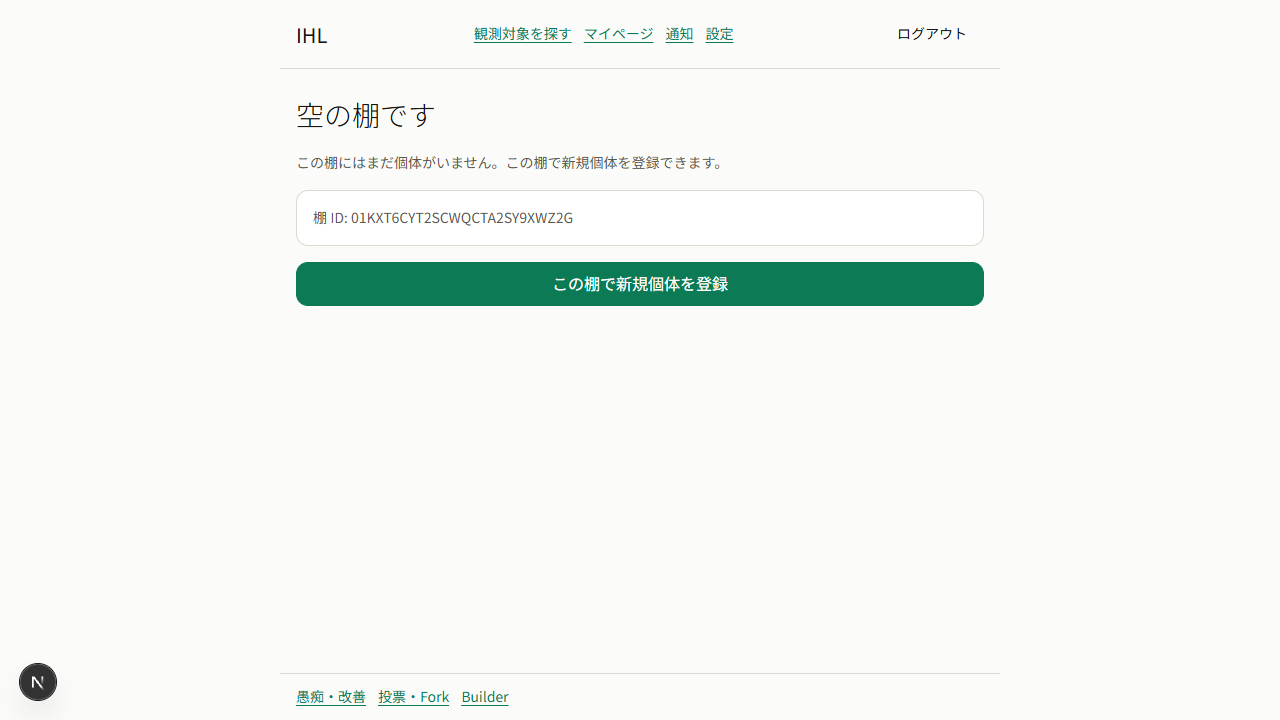
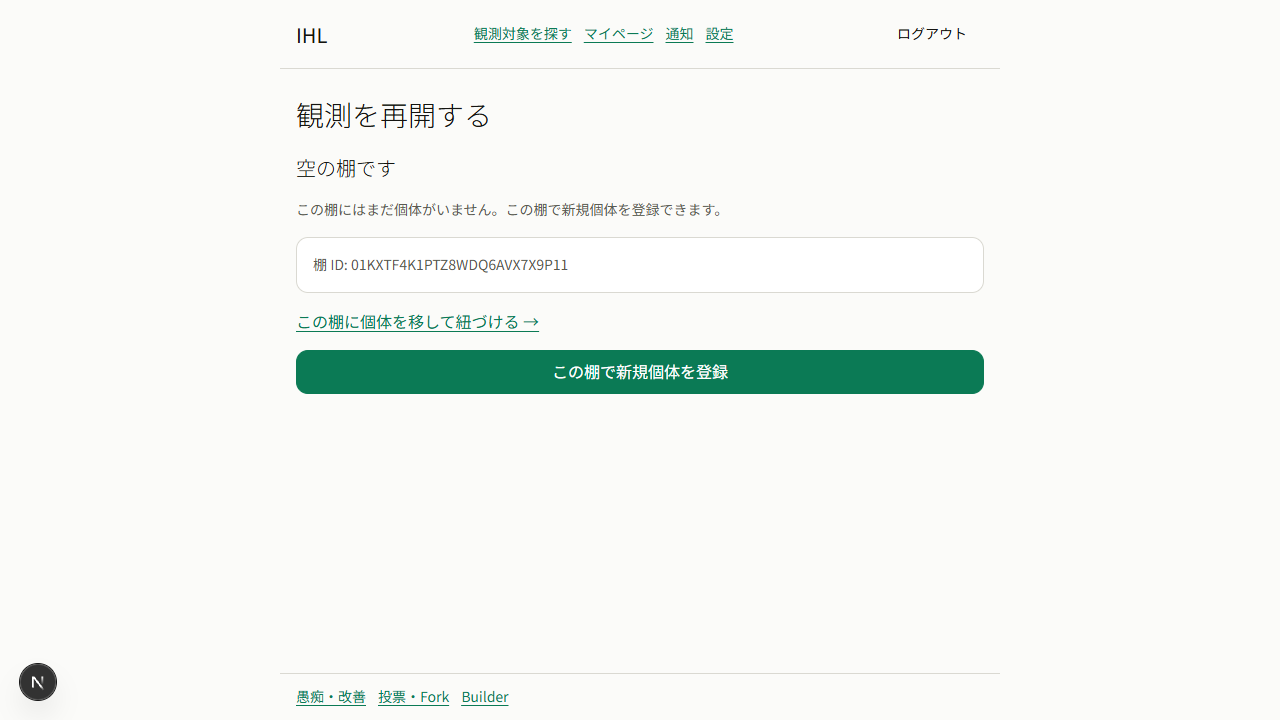
feat(obs): 棚への個体紐づけに所有権認可(fail-closed) + reuse UI — wave1 R3
棚に個体を紐づける(occupancy)導線を追加。ユーザー制約: 他人の個体をQR/検索で
勝手に登録できてはならない(取得はMarketの所有権譲渡+同意経由のみ・可視性≠認可)。
実コードの穴を是正: occupancy書き込みの全typed経路に fail-closed 所有権認可を追加。
現所有者=最新transfer受領者 or 作成者(GET /individuals本人スコープと一致)。
- POST /occupancy: 非所有者は403 NOT_OWNER・書き込まない
- moveOccupancy: 同上(batch-commit kind:"move"はper-item失敗にマップ)
- deriveDeviceBindingsForCapture(観測コミット時の自動占有生成): 敵対的批評家が
  発見した越境claim経路を是正=自分の所有個体のみ棚リンク(観測自体は合法・リンクのみ抑止)
UI: qr-resume(多頭/空)に「この棚に個体を移して紐づける」= 既存の本人スコープ
一括移動フローへ(reuse-first・新画面なし・renderer/schemas/nav無改変)。
認可はTypeScript/ユニット/E2Eで実証: occupancy-authz.spec(2ユーザー403/201)+
obs-device-binding-commit.test(非所有者コミット→占有0件を実ストア走査で証明)。

【正直な残存リスク・スコープ外】敵対的再検査で第4経路=汎用生追加 POST /events
(index.ts:534)が型allowlist無しで越境occupancyを直append可能と判明。これは
R3以前から存在する系統的な平台級の穴(occupancyに限らず市場所有権=金銭・カルマ等
全data本文認可に影響)で、修正層は/events自体かprojection時再検証=C9/platform裁定。
本コミットのtyped-writer認可は独立検査でCONFIRMED・完全。C9へ別チケットでescalation済
(review-queue sec-events-rawingest-authz-to-c9)。appの導線(QR/検索/UI/観測)は本コミットで
守られるが、生API直POSTは/events是正まで残る旨を誇張なく記録。

自律実行理由: ユーザー判定GO(OBS-QR-4/5=○○・80点「すっごくいい使いやすそう」)+
三重ゲート(lint/npm test api1362+web199/apps-web vitest117/e2e6/pytest49・独立批評家
1件bug発見→是正→再検査でtyped-writer全ガード確認)。main未push(統合はC9)。
参照: persona R75/R88 / review-queue obs-r3-link-authz / sec-events-rawingest-authz-to-c9

Changed region(s): [[0.2188, 0.275, 0.7812, 0.55], [0.2188, 0.2139, 0.5625, 0.2444], [0.2188, 0.1222, 0.375, 0.1833]]

diff --git a/tests/obs-device-binding-commit.test.ts b/tests/obs-device-binding-commit.test.ts
@@ -2,7 +2,9 @@
 // Occupancyの区間が自動派生される(専用binding APIを別途呼ばない・commit1回で完結)。
 import { describe, expect, it } from "vitest";
 import app from "../apps/api/src/index";
-import { DEV_TOKEN, FakeR2Bucket, makeEnv } from "./helpers";
+import { TruthStore } from "@ihl/truth";
+import { issueSessionToken } from "../apps/api/src/session";
+import { DEV_TOKEN, FakeR2Bucket, SESSION_SECRET, makeEnv } from "./helpers";
 
 const AUTH = { Authorization: `Bearer ${DEV_TOKEN}` };
 const AUTH_JSON = { ...AUTH, "content-type": "application/json" };
@@ -11,15 +13,19 @@ function ctx() {
   const bucket = new FakeR2Bucket();
   return { bucket, env: makeEnv(bucket) };
 }
-async function post(path: string, body: unknown, env: object) {
-  return app.request(path, { method: "POST", headers: AUTH_JSON, body: JSON.stringify(body) }, env);
+async function post(path: string, body: unknown, env: object, headers: Record<string, string> = AUTH_JSON) {
+  return app.request(path, { method: "POST", headers, body: JSON.stringify(body) }, env);
 }
-async function get(path: string, env: object) {
-  return app.request(path, { headers: AUTH }, env);
+async function get(path: string, env: object, headers: Record<string, string> = AUTH) {
+  return app.request(path, { headers }, env);
+}
+async function authOf(actor: string) {
+  const tok = await issueSessionToken(actor, SESSION_SECRET);
+  return { Authorization: `Bearer ${tok}`, "content-type": "application/json" };
 }
 
-async function registerDevice(env: object, placementRef: string) {
-  const res = await post("/api/v1/devices", { provider: "dummy", display_name: "Shelf Sensor", placement_ref: placementRef }, env);
+async function registerDevice(env: object, placementRef: string, headers: Record<string, string> = AUTH_JSON) {
+  const res = await post("/api/v1/devices", { provider: "dummy", display_name: "Shelf Sensor", placement_ref: placementRef }, env, headers);
   return ((await res.json()) as { device_id: string }).device_id;
 }
 
@@ -27,6 +33,11 @@ describe("OBS-17 DeviceBinding/Occupancy auto-derivation at commit", () => {
   it("solid-observation/commit with devices[] opens a binding + occupancy with no separate API call", async () => {
     const { env } = ctx();
     const deviceId = await registerDevice(env, "placement/shelf-1");
+    // occupancy authz (Task 1, source-routes.ts deriveDeviceBindingsForCapture):
+    // the auto-derived occupancy links subject_ref to the device's placement —
+    // that's an ownership action, so the caller must own individual/ind-A first
+    // (same DEV_TOKEN actor creates its master here) or the derivation fail-closes.
+    await post("/api/v1/individuals", { individual_id: "ind-A" }, env);
 
     const res = await post(
       "/api/v1/solid-observation/commit",
@@ -92,5 +103,69 @@ describe("OBS-17 DeviceBinding/Occupancy auto-derivation at commit", () => {
     expect(body.results[0].ok).toBe(true);
     expect(body.results[0].device_bindings).toHaveLength(1);
     expect(body.results[0].device_bindings![0].device_id).toBe(deviceId);
+  });
+
+  // Regression for the ownership bypass this file's persona R75 fix closes:
+  // a capture-commit with devices[] used to auto-link ANY subject_ref onto the
+  // device's placement (occupancy) with no ownership check — actor B could
+  // capture-observe actor A's individual through a device B controls and
+  // silently claim A's individual onto B's shelf. deriveDeviceBindingsForCapture
+  // now only derives the occupancy when the caller owns the individual
+  // (source-routes.ts ~L494-521); non-owner captures still succeed (observing
+  // is legal) but must write ZERO occupancy events.
+  it("OWNERSHIP BYPASS (persona R75): non-owner capture with devices[] derives NO occupancy for someone else's individual", async () => {
+    const { env, bucket } = ctx();
+    const a = await authOf("owner-a-r75");
+    const b = await authOf("owner-b-r75");
+
+    // A owns individual X (creates its master).
+    const indRes = await post("/api/v1/individuals", { individual_id: "ind-r75-x" }, env, a);
+    expect(indRes.status).toBe(201);
+
+    // Device D has a placement_ref (shelf S) — registered by B, who controls it.
+    const deviceId = await registerDevice(env, "placement/shelf-r75", b);
+
+    // X has no open occupancy yet — the pre-fix code would have opened one here.
+    const res = await post(
+      "/api/v1/solid-observation/commit",
+      { domain: "biology", subject_ref: "individual/ind-r75-x", devices: [deviceId] },
+      env,
+      b,
+    );
+    expect(res.status).toBe(202); // observing a non-owned individual stays legal
+    const body = (await res.json()) as {
+      device_bindings: { device_id: string; binding_id: string | null; occupancy_id: string | null; occupancy_opened: boolean }[];
+    };
+    expect(body.device_bindings[0].occupancy_id).toBeNull();
+    expect(body.device_bindings[0].occupancy_opened).toBe(false);
+    // binding itself (device usage, not subject ownership) is unaffected.
+    expect(body.device_bindings[0].binding_id).toBeTruthy();
+
+    // Ground truth: zero OCCUPANCY_TYPE events exist for individual/ind-r75-x —
+    // B did not link A's individual to B's shelf.
+    const occEvents = (await new TruthStore(bucket).listEvents("truth/ihl.src.occupancy.v1/"))
+      .map((e) => e.data as Record<string, unknown>)
+      .filter((d) => d.subject_ref === "individual/ind-r75-x");
+    expect(occEvents).toHaveLength(0);
+
+    // Positive companion: A (the actual owner) doing the SAME capture DOES
+    // derive the occupancy — the fix didn't break legitimate auto-linking.
+    const resOwner = await post(
+      "/api/v1/solid-observation/commit",
+      { domain: "biology", subject_ref: "individual/ind-r75-x", devices: [deviceId] },
+      env,
+      a,
+    );
+    expect(resOwner.status).toBe(202);
+    const bodyOwner = (await resOwner.json()) as {
+      device_bindings: { occupancy_id: string | null; occupancy_opened: boolean }[];
+    };
+    expect(bodyOwner.device_bindings[0].occupancy_id).toBeTruthy();
+    expect(bodyOwner.device_bindings[0].occupancy_opened).toBe(true);
+
+    const occEventsAfter = (await new TruthStore(bucket).listEvents("truth/ihl.src.occupancy.v1/"))
+      .map((e) => e.data as Record<string, unknown>)
+      .filter((d) => d.subject_ref === "individual/ind-r75-x");
+    expect(occEventsAfter).toHaveLength(1);
   });
 });

diff --git a/apps/api/src/source-routes.ts b/apps/api/src/source-routes.ts
@@ -201,8 +201,57 @@ sourceRoutes.get("/device-bindings", async (c) => {
 
 // ── occupancy ───────────────────────────────────────────────────────────────
 
+// Ownership trust boundary (persona R75): a shelf QR lets a caller LINK their
+// OWN individual to a placement, but must never let them claim someone
+// else's individual by writing an occupancy directly — that must go through
+// the Market transfer flow (mkt-listing + consent). Below are the two
+// individual/market event types this needs read-only, mirrored from
+// individual-routes.ts (MASTER_TYPE / TXN_TYPE at individual-routes.ts:24,38)
+// rather than imported — individual-routes.ts already imports
+// projectOpenBindings FROM this module, so an import the other way would be
+// circular.
+const IND_MASTER_TYPE = "ihl.ind.master.v1";
+const MKT_TXN_TYPE = "ihl.mkt.transaction_event.v1";
+
+function individualIdFromSubjectRef(subjectRef: string): string | null {
+  return subjectRef.startsWith("individual/") ? subjectRef.slice("individual/".length) : null;
+}
+
+/**
+ * Current owner of an individual (fail-closed — mirrors the owner_history
+ * projection at individual-routes.ts:278-287 + the creator-scope check
+ * listIndividualsFor uses at individual-routes.ts:1049, composed into one
+ * "who owns this right now" answer):
+ *   - Any market transfer txn (kind:"transfer") whose individual_ids[]
+ *     contains this id → the LATEST one's `counterparty` (recipient) wins.
+ *     If that transfer's counterparty is null/empty (incomplete transfer),
+ *     fall back to the transfer's `actor_id` (seller/from) — never a
+ *     permissive default.
+ *   - Else → the individual master's `actor_id` (creator).
+ *   - Individual/master unknown → null (indeterminate). Callers MUST treat
+ *     null as "not the caller" (deny), never as "unowned, allow".
+ */
+export async function projectCurrentOwner(bucket: R2BucketLite, individualId: string): Promise<string | null> {
+  const s = new TruthStore(bucket);
+  const transfers = (await s.listEvents(`truth/${MKT_TXN_TYPE}/`))
+    .map(dataOf)
+    .filter((d) => d.kind === "transfer" && Array.isArray(d.individual_ids) && (d.individual_ids as unknown[]).includes(individualId))
+    .sort((a, b) => String(a.created_at ?? "").localeCompare(String(b.created_at ?? "")));
+  if (transfers.length > 0) {
+    const latest = transfers[transfers.length - 1];
+    const counterparty = str(latest.counterparty);
+    if (counterparty) return counterparty;
+    return str(latest.actor_id); // incomplete transfer — fall back to seller, not null
+  }
+  const master = await s.readEvent(`truth/${IND_MASTER_TYPE}/${individualId}.json`);
+  if (!master) return null;
+  return str(dataOf(master).actor_id);
+}
+
 // POST /occupancy — register an occupancy record. placement_id + subject_ref
-// required. actor_id forced from session.
+// required. actor_id forced from session. If subject_ref names an individual,
+// the caller must currently own it (see projectCurrentOwner above) — this is
+// the trust boundary that keeps shelf-linking from bypassing Market transfer.
 sourceRoutes.post("/occupancy", async (c) => {
   const body = (await c.req.json().catch(() => ({}))) as Record<string, unknown>;
   const actorId = c.get("actorId");
@@ -210,6 +259,11 @@ sourceRoutes.post("/occupancy", async (c) => {
   const subjectRef = str(body.subject_ref);
   if (!placementId || !subjectRef) {
     return c.json({ error: "INVALID_OCCUPANCY", details: ["placement_id and subject_ref required"] }, 400);
+  }
+  const individualId = individualIdFromSubjectRef(subjectRef);
+  if (individualId) {
+    const owner = await projectCurrentOwner(c.env.TRUTH, individualId);
+    if (owner !== actorId) return c.json({ error: "NOT_OWNER" }, 403);
   }
   const occupancyId = ulid();
   const data = {
@@ -323,6 +377,10 @@ export async function projectOccupantsAt(
  * Move a subject to a new placement: end the currently-open occupancy (if
  * any) + start a new one, as ONE logical action (F4 wireframe「移動」/
  * batch-commit kind:"move" — device-binding start/end と同型の2相append).
+ * Same ownership trust boundary as POST /occupancy above (projectCurrentOwner)
+ * — this is not an HTTP handler, so a non-owner move is signalled via the
+ * `{ error }` result branch instead of a 403; callers (batch-commit-routes.ts)
+ * must check for it and map it to a per-item failure, not a whole-batch throw.
  */
 export async function moveOccupancy(
   bucket: R2BucketLite,
@@ -330,7 +388,12 @@ export async function moveOccupancy(
   subjectRef: string,
   toPlacementId: string,
   at: string,
-): Promise<{ occupancy_id: string; ended_previous: boolean }> {
+): Promise<{ occupancy_id: string; ended_previous: boolean } | { error: "NOT_OWNER" }> {
+  const individualId = individualIdFromSubjectRef(subjectRef);
+  if (individualId) {
+    const owner = await projectCurrentOwner(bucket, individualId);
+    if (owner !== actorId) return { error: "NOT_OWNER" };
+  }
   const s = new TruthStore(bucket);
   const open = await projectOpenOccupancy(bucket, subjectRef);
   let endedPrevious = false;
@@ -428,7 +491,16 @@ export async function deriveDeviceBindingsForCapture(
     // concern — batch-commit kind:"move" / moveOccupancy handles that).
     let occupancyId: string | null = null;
     let occupancyOpened = false;
-    if (subjectRef) {
+    // R3 ownership boundary (fail-closed): auto-linking a capture's subject onto
+    // a shelf (occupancy) is an ownership action — same trust boundary as POST
+    // /occupancy / moveOccupancy. Only derive it when the actor OWNS the
+    // individual. Observing a non-owned individual stays legal, but silently
+    // linking it to the actor's placement here would bypass the Market
+    // transfer/consent (the exact claim R3 forbids). Non-individual subjects
+    // have no ownership concept → unchanged; owner indeterminate → skip the link.
+    const indId = subjectRef ? individualIdFromSubjectRef(subjectRef) : null;
+    const ownsSubject = subjectRef && (!indId || (await projectCurrentOwner(bucket, indId)) === actorId);
+    if (ownsSubject) {
       const open = await projectOpenOccupancy(bucket, subjectRef);
       if (open) {
         occupancyId = open.occupancy_id;

diff --git a/apps/web/e2e/occupancy-authz.spec.ts b/apps/web/e2e/occupancy-authz.spec.ts
@@ -1,0 +1,70 @@
+import { test, expect, request, type APIRequestContext } from "@playwright/test";
+
+// Occupancy ownership trust boundary (wave1-obs Task 1 — persona R75): a
+// shelf QR lets a caller LINK their OWN individual to a placement, but must
+// never let them claim someone else's individual by writing an occupancy
+// directly (that must go through Market transfer + consent). This mirrors
+// observation.spec.ts's "API semantics guard" suite's magic-link auth
+// pattern (2 independent principals, no browser needed — API-level authz
+// check) rather than reusing the single shared dev-login session every other
+// e2e spec uses.
+const API = "http://127.0.0.1:8787";
+
+async function newPrincipal(email: string): Promise<{ api: APIRequestContext; actorId: string }> {
+  const anon: APIRequestContext = await request.newContext({ baseURL: API });
+  const mlRes = await anon.post("/api/v1/auth/magic-link", { data: { email } });
+  expect(mlRes.status()).toBe(202);
+  const ml = await mlRes.json();
+  const verifyRes = await anon.post("/api/v1/auth/verify", { data: { token: ml.dev_magic_token } });
+  expect(verifyRes.status()).toBe(200);
+  const actorId = (await verifyRes.json()).actor_id;
+  const setCookie = verifyRes.headersArray().find((h) => h.name.toLowerCase() === "set-cookie");
+  const sessionToken = setCookie!.value.slice("ihl_session=".length).split(";")[0];
+  await anon.dispose();
+  const api = await request.newContext({ baseURL: API, extraHTTPHeaders: { Authorization: `Bearer ${sessionToken}` } });
+  return { api, actorId };
+}
+
+test("POST /occupancy rejects linking an individual the caller does not own (403 NOT_OWNER), no write", async () => {
+  const tag = Date.now().toString(36);
+  const a = await newPrincipal(`e2e-owner-a-${tag}@ihl.local`);
+  const b = await newPrincipal(`e2e-owner-b-${tag}@ihl.local`);
+
+  // A creates individual X — A is its owner (creator, no transfer yet).
+  const indRes = await a.api.post("/api/v1/individuals", { data: { local_label_text: `E2E-OWN-${tag}` } });
+  expect(indRes.status()).toBe(201);
+  const individualId = (await indRes.json()).individual_id as string;
+  expect(individualId).toBeTruthy();
+
+  const plRes = await a.api.post("/api/v1/placements", { data: { label: `E2E-SHELF-${tag}` } });
+  expect(plRes.status()).toBe(201);
+  const placementId = (await plRes.json()).placement_id as string;
+
+  // B (NOT the owner) attempts to link X to the shelf directly — must be
+  // denied (fail-closed authz), not silently written.
+  const forbidden = await b.api.post("/api/v1/occupancy", {
+    data: { placement_id: placementId, subject_ref: `individual/${individualId}` },
+  });
+  expect(forbidden.status()).toBe(403);
+  expect(await forbidden.json()).toEqual({ error: "NOT_OWNER" });
+
+  // Nothing was written for either party's occupancy list.
+  const bList = await b.api.get("/api/v1/occupancy");
+  expect((await bList.json()).occupancy).toEqual([]);
+  const aList = await a.api.get("/api/v1/occupancy");
+  expect((await aList.json()).occupancy).toEqual([]);
+
+  // A (the actual owner) CAN link their own individual.
+  const allowed = await a.api.post("/api/v1/occupancy", {
+    data: { placement_id: placementId, subject_ref: `individual/${individualId}` },
+  });
+  expect(allowed.status()).toBe(201);
+  const allowedBody = await allowed.json();
+  expect(allowedBody.occupancy_id).toBeTruthy();
+
+  const aListAfter = await a.api.get("/api/v1/occupancy");
+  expect((await aListAfter.json()).occupancy).toHaveLength(1);
+
+  await a.api.dispose();
+  await b.api.dispose();
+});

diff --git a/tests/fnd-18-source.test.ts b/tests/fnd-18-source.test.ts
@@ -6,7 +6,7 @@
 // dup 409, placement/occupancy INSERT + put-if-absent 409, actor_id forced.
 import { describe, expect, it } from "vitest";
 import { Hono } from "hono";
-import { TruthStore } from "@ihl/truth";
+import { TruthStore, ulid } from "@ihl/truth";
 import { sourceRoutes } from "../apps/api/src/source-routes";
 import { bucketize, TELEMETRY_BUCKET_MS, TELEMETRY_SOURCE_MS } from "../apps/api/src/telemetry-merge";
 import type { Bindings, Variables } from "../apps/api/src/env";
@@ -167,13 +167,47 @@ describe("FND-18 placement + occupancy INSERT (put-if-absent)", () => {
   });
 
   it("placement without label -> 400; occupancy insert then list", async () => {
-    const { app, env } = ctx();
+    const { app, env, bucket } = ctx();
     expect((await post(app, env, "/api/v1/placements", {})).status).toBe(400);
+
+    // occupancy authz (Task 1): linking individual/ind-1 requires the caller to
+    // own it — seed a master owned by ACTOR directly (sourceRoutes-only mount
+    // has no individualRoutes to create it via API), same shape as
+    // createIndividualMaster (individual-routes.ts).
+    await new TruthStore(bucket).putEventAt("truth/ihl.ind.master.v1/ind-1.json", {
+      specversion: "1.0",
+      id: ulid(),
+      source: "test",
+      type: "ihl.ind.master.v1",
+      time: new Date().toISOString(),
+      dataschema: "schemas/events/ind-master.schema.json",
+      provenance: { generator_kind: "human", actor_id: ACTOR },
+      data: { individual_id: "ind-1", actor_id: ACTOR, created_at: new Date().toISOString() },
+    });
 
     const occ = await post(app, env, "/api/v1/occupancy", { placement_id: "plc-1", subject_ref: "individual/ind-1" });
     expect(occ.status).toBe(201);
     const list = (await (await get(app, env, "/api/v1/occupancy")).json()) as { occupancy: unknown[] };
     expect(list.occupancy).toHaveLength(1);
+  });
+
+  it("occupancy for an individual NOT owned by the caller -> 403 NOT_OWNER, no write", async () => {
+    const { app, env, bucket } = ctx();
+    await new TruthStore(bucket).putEventAt("truth/ihl.ind.master.v1/ind-other.json", {
+      specversion: "1.0",
+      id: ulid(),
+      source: "test",
+      type: "ihl.ind.master.v1",
+      time: new Date().toISOString(),
+      dataschema: "schemas/events/ind-master.schema.json",
+      provenance: { generator_kind: "human", actor_id: "someone-else" },
+      data: { individual_id: "ind-other", actor_id: "someone-else", created_at: new Date().toISOString() },
+    });
+    const occ = await post(app, env, "/api/v1/occupancy", { placement_id: "plc-1", subject_ref: "individual/ind-other" });
+    expect(occ.status).toBe(403);
+    expect(await occ.json()).toEqual({ error: "NOT_OWNER" });
+    const list = (await (await get(app, env, "/api/v1/occupancy")).json()) as { occupancy: unknown[] };
+    expect(list.occupancy).toHaveLength(0);
   });
 });
 

diff --git a/tests/observation-ext.test.ts b/tests/observation-ext.test.ts
@@ -359,6 +359,9 @@ describe("OBS-20 placement/shelf QR (棚→個体 連鎖)", () => {
     const { placement_id } = (await (await post("/api/v1/placements", { label: "棚B" }, env)).json()) as {
       placement_id: string;
     };
+    // occupancy authz (Task 1): move requires the caller to own indId — create
+    // its master first (DEV_TOKEN's actor becomes its owner).
+    await post("/api/v1/individuals", { individual_id: indId }, env);
     // "move" (kind:"move") is the phase:"start"/"end"-tagged occupancy path
     // (moveOccupancy, source-routes.ts) — plain POST /occupancy writes a
     // phase-less legacy record that is never "open" (see the ended-occupancy
@@ -602,6 +605,8 @@ describe("OBS-72 individual → placement → lab-environment 連鎖", () => {
     const { placement_id } = (await (await post("/api/v1/placements", { label: "棚Z" }, env)).json()) as {
       placement_id: string;
     };
+    // occupancy authz (Task 1): move requires the caller to own indId.
+    await post("/api/v1/individuals", { individual_id: indId }, env);
     await post(
       "/api/v1/observation/batch-commit",
       { items: [{ kind: "move", subject_ref: `individual/${indId}`, to_placement_id: placement_id }] },

diff --git a/apps/api/src/batch-commit-routes.ts b/apps/api/src/batch-commit-routes.ts
@@ -68,6 +68,7 @@ async function commitOne(
     if (typeof subjectRef !== "string" || !subjectRef) return { ok: false, error: "INVALID_ITEM" };
     if (typeof toPlacementId !== "string" || !toPlacementId) return { ok: false, error: "INVALID_ITEM" };
     const r = await moveOccupancy(bucket, actorId, subjectRef, toPlacementId, at);
+    if ("error" in r) return { ok: false, error: r.error }; // per-item failure, not a whole-batch 500
     return { ok: true, id: r.occupancy_id };
   }
 